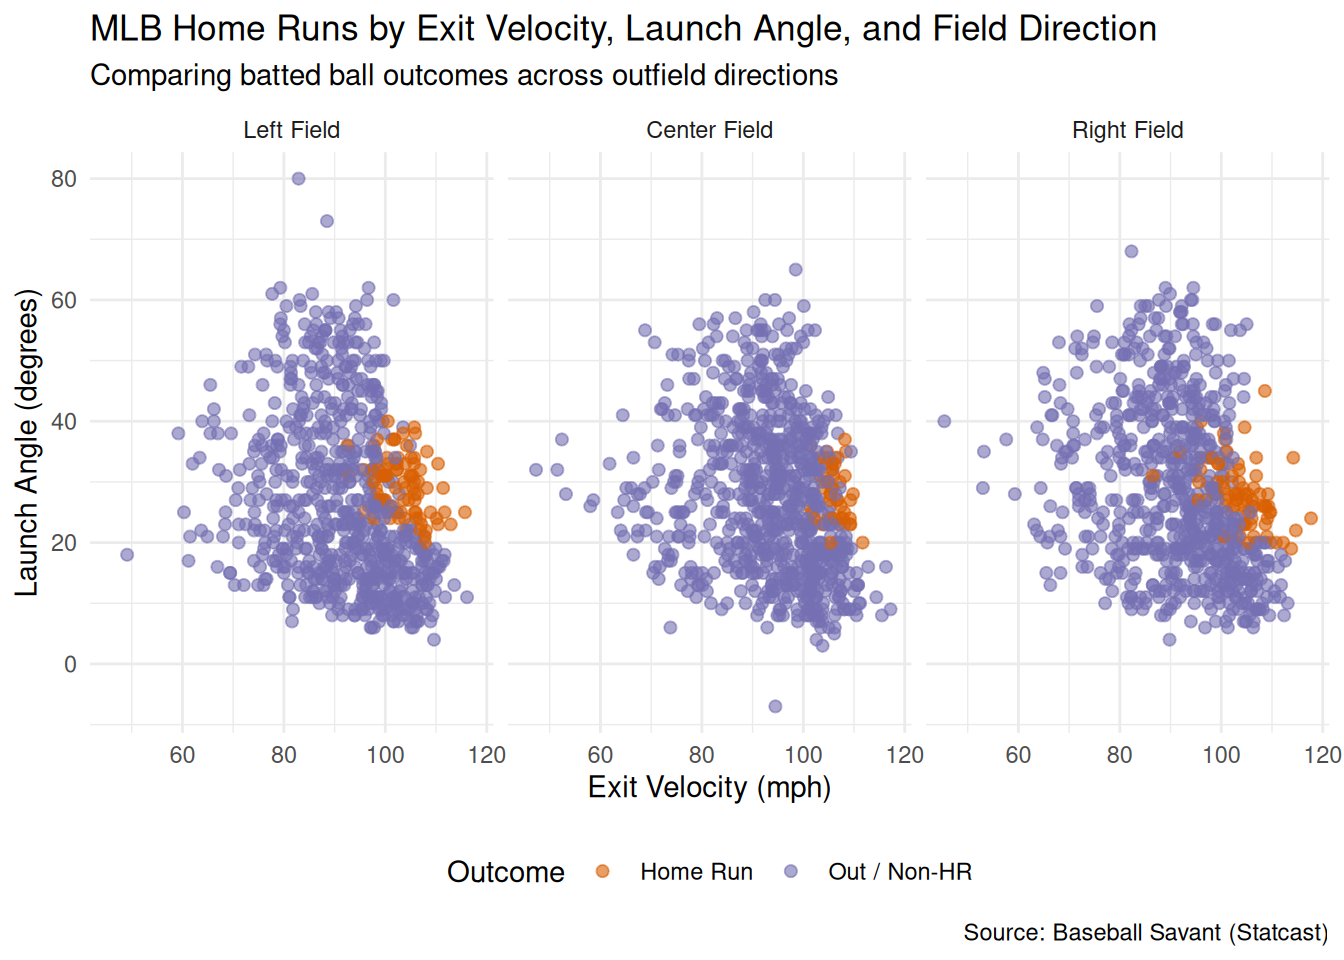
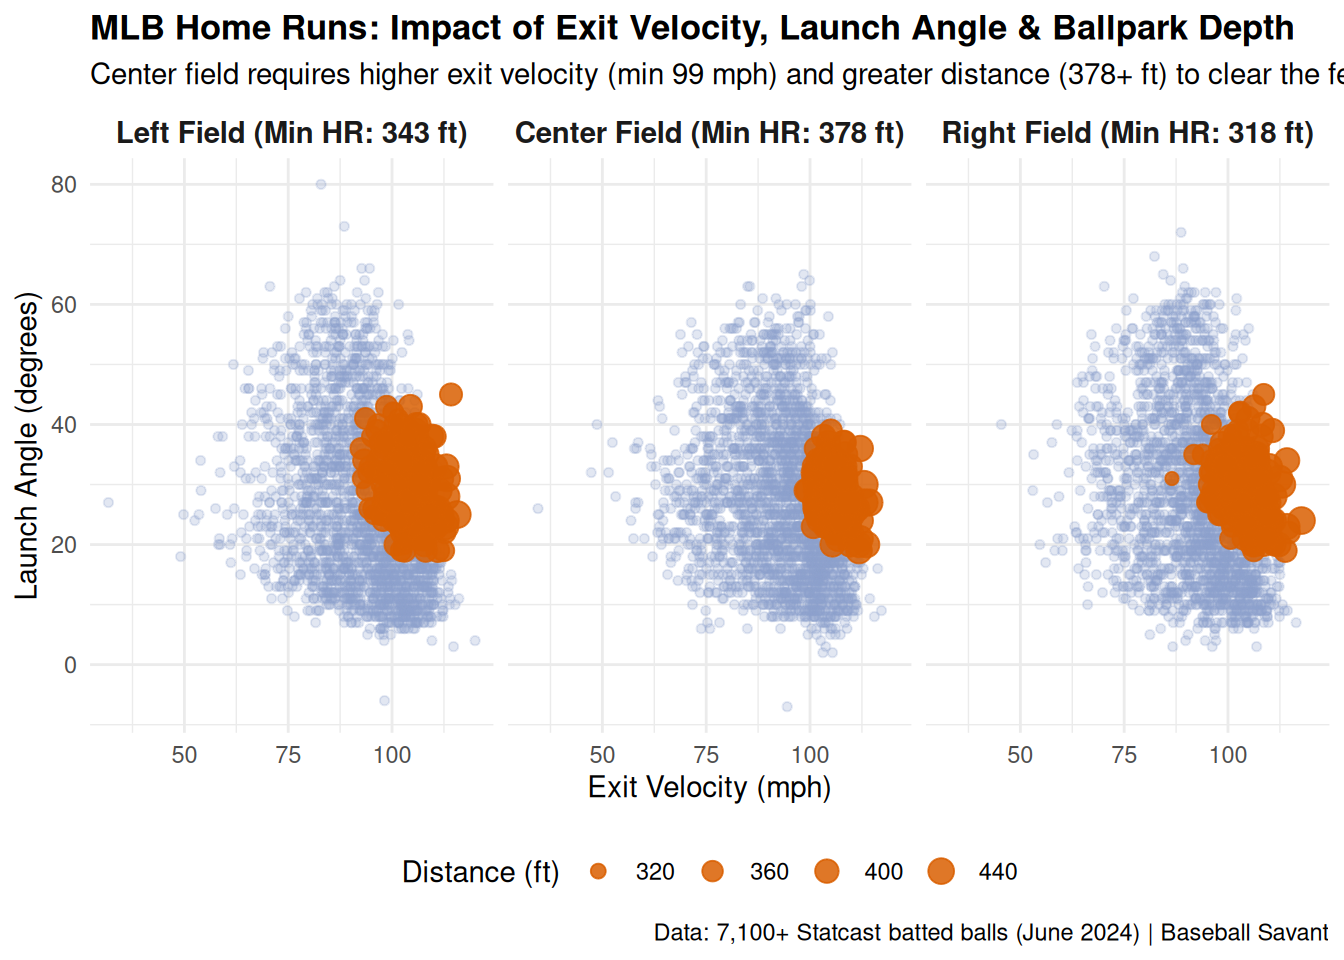
Built site for gh-pages

diff --git a/index.html b/index.html
@@ -88,8 +88,8 @@ ul.task-list li input[type="checkbox"] {
 <p>This topic interests me because I play baseball and enjoy watching MLB. I want to explore how different ballpark dimensions affect home runs and why the same hit might be a home run in one stadium but stay in play in another. I also think it would be interesting to combine my passion for baseball with coding and data analysis to discover patterns across all MLB ballparks.</p>
 </section>
 </section>
-<section id="preliminary-visualization" class="level2">
-<h2 class="anchored" data-anchor-id="preliminary-visualization">Preliminary Visualization</h2>
+<section id="outfield-depth-home-run-thresholds" class="level2">
+<h2 class="anchored" data-anchor-id="outfield-depth-home-run-thresholds">Outfield Depth &amp; Home Run Thresholds</h2>
 <div class="cell">
 <div class="cell-output-display">
 <div>
